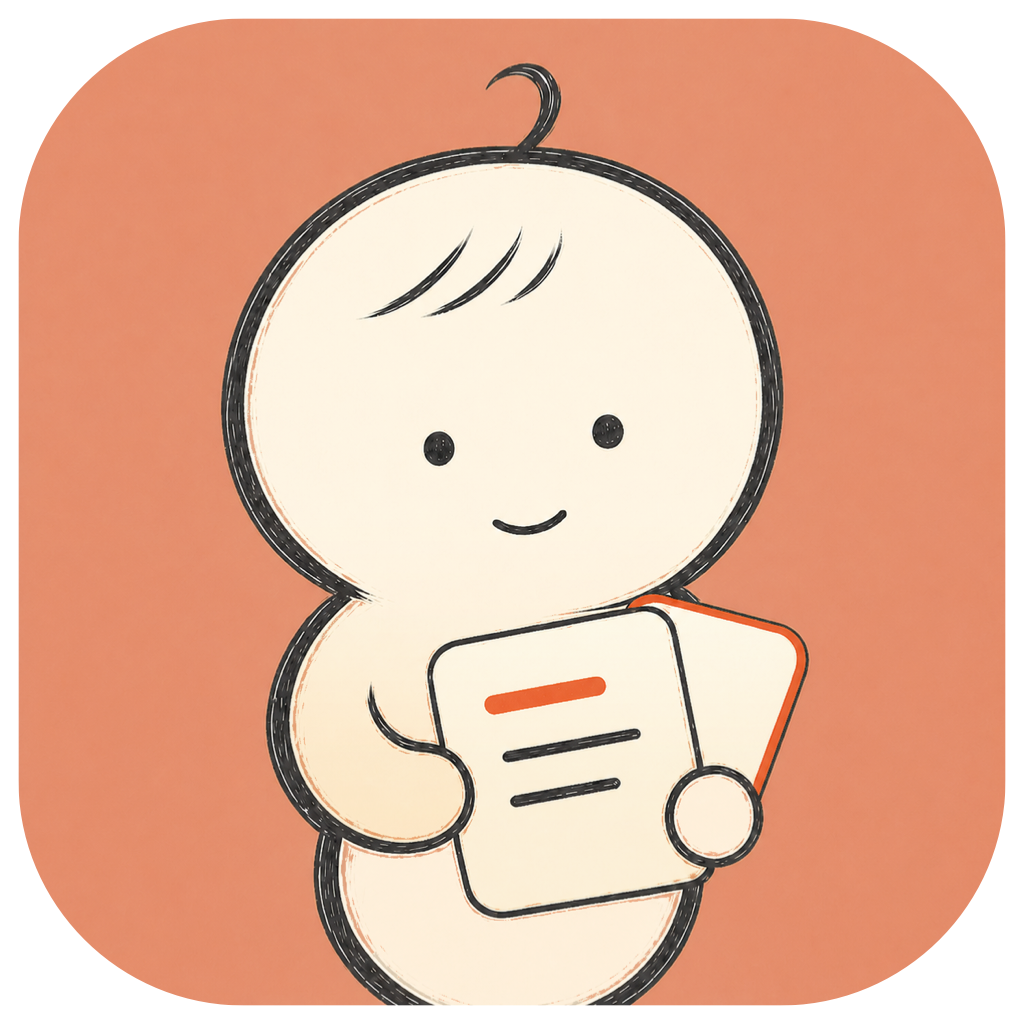
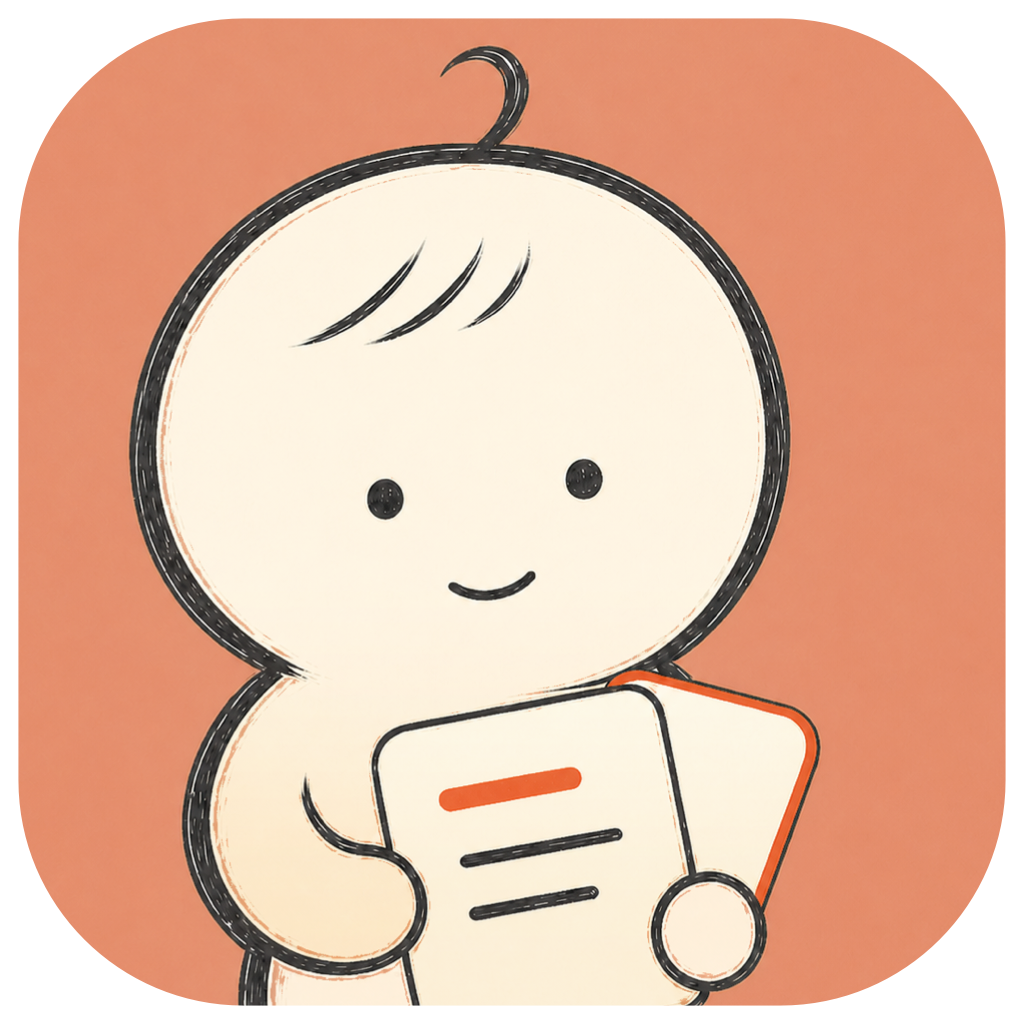
品牌：按参考草图校准 App 图标人物取景

diff --git a/brand/package_raster_assets.swift b/brand/package_raster_assets.swift
@@ -79,6 +79,33 @@ func drawAspectFill(_ image: NSImage, in destination: NSRect) {
     )
 }
 
+func appIconSourceRect(for image: NSImage) -> NSRect {
+    // V8.3 reproduces the accepted sketch crop: a close character view with the
+    // ahoge near the top edge and the lower body/cards intentionally clipped.
+    let cropFraction: CGFloat = 0.85
+    let leftFraction: CGFloat = 0.110
+    let topFraction: CGFloat = 0.022
+    let cropWidth = image.size.width * cropFraction
+    let cropHeight = image.size.height * cropFraction
+    return NSRect(
+        x: image.size.width * leftFraction,
+        y: image.size.height * (1 - topFraction - cropFraction),
+        width: cropWidth,
+        height: cropHeight
+    )
+}
+
+func drawAppIconCrop(_ image: NSImage, in destination: NSRect) {
+    image.draw(
+        in: destination,
+        from: appIconSourceRect(for: image),
+        operation: .sourceOver,
+        fraction: 1,
+        respectFlipped: false,
+        hints: [.interpolation: NSImageInterpolation.high]
+    )
+}
+
 func exportIcon(input: URL, output: URL, size: Int) throws {
     guard let image = NSImage(contentsOf: input) else { throw PackageError.load(input) }
     let bitmap = try makeBitmap(width: size, height: size)
@@ -94,7 +121,7 @@ func exportIcon(input: URL, output: URL, size: Int) throws {
         xRadius: CGFloat(size) * 0.22,
         yRadius: CGFloat(size) * 0.22
     ).addClip()
-    drawAspectFill(image, in: iconRect)
+    drawAppIconCrop(image, in: iconRect)
     NSGraphicsContext.restoreGraphicsState()
     try writePNG(bitmap, to: output)
 }
@@ -138,7 +165,7 @@ func drawIconMaster(_ icon: NSImage, in rect: NSRect) {
         xRadius: rect.width * 0.22,
         yRadius: rect.height * 0.22
     ).addClip()
-    drawAspectFill(icon, in: rect)
+    drawAppIconCrop(icon, in: rect)
     NSGraphicsContext.restoreGraphicsState()
 }
 
@@ -159,8 +186,8 @@ func makeBoard(mascotURL: URL, iconURL: URL, markURL: URL, output: URL) throws {
     background.setFill()
     NSRect(x: 0, y: 0, width: 1600, height: 1000).fill()
 
-    drawText("Review Today — GPT Image Brand Assets V8.2", at: NSPoint(x: 80, y: 920), size: 34, weight: .semibold, color: graphite)
-    drawText("模型负责角色内容；颜色按已接受草图直接取样，工程只做像素校色与打包", at: NSPoint(x: 80, y: 878), size: 18, color: secondary)
+    drawText("Review Today — GPT Image Brand Assets V8.3", at: NSPoint(x: 80, y: 920), size: 34, weight: .semibold, color: graphite)
+    drawText("模型负责角色内容；颜色与 AppIcon 取景均按已接受草图校准", at: NSPoint(x: 80, y: 878), size: 18, color: secondary)
 
     let mascotPanel = NSRect(x: 80, y: 330, width: 480, height: 500)
     let iconPanel = NSRect(x: 600, y: 330, width: 480, height: 500)
@@ -187,7 +214,7 @@ func makeBoard(mascotURL: URL, iconURL: URL, markURL: URL, output: URL) throws {
         x += max(dimension + 70, 118)
     }
     drawText("静态品牌：闭口微笑 + 两张知识卡", at: NSPoint(x: 820, y: 165), size: 18, weight: .medium, color: graphite)
-    drawText("陶土底 #E58E6D；头部 #FFF7E8；下半身 #FCEFD6；不改变模型角色造型。", at: NSPoint(x: 820, y: 128), size: 14, color: secondary)
+    drawText("取景：呆毛接近上沿，头部为主视觉，身体与知识卡在下沿自然裁切。", at: NSPoint(x: 820, y: 128), size: 14, color: secondary)
 
     NSGraphicsContext.restoreGraphicsState()
     try writePNG(bitmap, to: output)

diff --git a/design-explorations/review-agent/BRIEF.md b/design-explorations/review-agent/BRIEF.md
@@ -9,6 +9,7 @@
 - `brand/raster/mascot-master-v8.png` 是统一暖白底的完整吉祥物母图；`brand/raster/app-icon-master-v8.png` 是陶土色 App 图标母图；`brand/raster/mark-master-v8.png` 是单色标志母图。三者均由模型分别生成，并以同一角色身份约束。
 - V8 首轮模型母图的角色偏黄，App 图标底偏高饱和橙红且带中心晕染；V8.1 仍被 Rex 判断为偏橙、身体颜色不准。V8.2 将 Rex 提供的草图保存为 `brand/references/accepted-color-reference-v8.png` 并直接取样：产品底 `#FEF9F2`、头部 `#FFF7E8`、下半身 `#FCEFD6`、卡片 `#FEF8ED`、图标陶土底 `#E58E6D`、石墨 `#3B3A38`、卡片强调 `#E97C4D`。
 - GPT Image 保留并统一角色造型与铅笔纸面质感；由于模型按 Hex 输出的图标底仍约为 `#F59C79`，工程仅将已有像素确定性校准至草图取样中位色，不描线、不补画、不更改角色内容。该校准方式是 Rex 本轮明确要求的直接取色修正。
+- V8.3 进一步以同一草图锁定 App 图标显示范围：角色轮廓约占图标宽度的 72%，呆毛靠近上沿，头部为第一视觉层级，身体与知识卡在下沿自然裁掉；不再为了露出完整身体而缩小角色。
 - 代码只能按已接受草图的取样中位色移动模型已有像素，以及对 App 图标母图进行裁切、缩放、圆角 Alpha 蒙版和 PNG 导出；不能补画五官、手臂、卡片、刘海或呆毛，也不能用 SVG 重新解释模型线条。
 - 内置生成工具两次把透明棋盘格画进 RGB 文件，因此当前完整吉祥物明确使用暖白产品底，不把假透明当作正式透明 cutout。透明角色资源需要后续单独提取并以 `hasAlpha: yes` 验证。
 - App 图标母图已导出为 16–1024 px 工程资源，`brand/exports/brand-acceptance-board.png` 已检查 128、64、32 与 16 px，并通过 macOS Debug 构建；真实 Dock／Finder 视觉仍待 Rex 验收。

diff --git a/DESIGN.md b/DESIGN.md
@@ -391,6 +391,7 @@ Agent 服务 就绪 · 麦克风已允许 · 通知已允许
 - 三者来自同一个角色，而不是三套互不相关的图形系统。
 - 吉祥物使用完整悬浮身体，用于复习窗口、语音状态和未来 Spine 表演。
 - App 图标最终应从被接受的角色母形提炼，在小尺寸保留最有生命力的轮廓与表情；是否使用头部近景不在角色确认前锁死。
+- 已接受草图同时锁定 App 图标取景：角色轮廓约占图标宽度的 72%，呆毛只保留约 2%–4% 上边距，头部成为第一视觉层级；身体、双臂与知识卡在下边缘自然裁切，不为展示完整角色而缩小。完整悬浮身体只用于吉祥物立绘，不用于 AppIcon。
 - 极简 Logo 最终从同一角色提炼，用于菜单栏、状态图标、水印和小尺寸品牌位置；不预设必须由头部线圈或嘴构成。
 - 品牌的核心静态动作采用“复习老师带着今日复习卡来找用户”：优先探索双手抱着两张轻微错位的复习卡、向用户递卡邀请，以及翻卡提问三种构图。空手抱臂容易显得审视或封闭；吹哨与胸前常驻哨子偏向体育教练、裁判和催促，不进入常驻吉祥物、App 图标或 Logo。
 - 复习卡负责表达“带着内容帮助用户重温”，角色表情负责表达温柔老师人格，耳机和原生会话状态负责表达语音互动。App 图标不强行同时塞入复习、老师、语音与 AI 的全部符号，也不使用问号、对勾、文字、麦克风或通用聊天气泡替代角色辨识。

diff --git a/brand/README.md b/brand/README.md
@@ -9,6 +9,7 @@
 - `raster/mark-master-v8.png`：暖白底单色石墨标志母图。
 - `exports/brand-acceptance-board.png`：三项母图与实际 AppIcon 尺寸的集中验收板。
 - `references/accepted-color-reference-v8.png`：Rex 提供的已接受草图颜色参考。
+- `references/accepted-app-icon-crop-v8.png`：Rex 提供的 App 图标人物显示范围参考。
 - `palette-sampled.json`：从颜色参考干净区域直接取得的 sRGB 色值。
 
 ## 生产原则
@@ -43,5 +44,5 @@ swift brand/apply_sampled_palette.swift mark INPUT.png OUTPUT.png
 
 1. 对照三张母图检查是否仍是同一个角色，尤其是眼距、刘海、呆毛、闭口微笑、双臂和两张知识卡。
 2. 检查 1024、128、64、32 和 16 px 的卡片语义与表情是否仍然可辨认。
-3. 在 Dock、Finder、启动台和应用切换器检查图标裁切、圆角、留白和陶土底质感。
+3. 在 Dock、Finder、启动台和应用切换器检查图标裁切：角色轮廓约占图标宽度的 72%，呆毛接近上沿，身体和卡片在下沿自然裁掉；不要缩成完整立绘。
 4. 视觉通过前，不把当前模型输出称为最终品牌定稿或 Spine 可用拆件。

diff --git a/brand/GENERATION.md b/brand/GENERATION.md
@@ -34,6 +34,12 @@
 - GPT Image 按上述 Hex 生成的 App 图标仍把背景输出为约 `#F59C79`，因此最终使用 `apply_sampled_palette.swift` 将模型已有像素整体校准到取样中位色，同时保留纸面明暗与铅笔纹理。
 - 校准只移动已有颜色，不改变轮廓、表情、动作、卡片结构或裁切；头部到下半身采用平滑奶油色过渡，避免硬分界。单色标志沿用 V8.1 模型内容，只把背景与石墨线同步校准到同一取样色板。
 
+## V8.3 App 图标取景校正
+
+- Rex 通过 `references/accepted-app-icon-crop-v8.png` 指出正式 AppIcon 必须遵循已接受草图中的人物显示范围，而不是把模型角色尽量完整地塞进圆角方形。
+- 目标取景：角色深色轮廓约占图标宽度的 72%，呆毛距上沿约 2%–4%；头部居中偏左，身体、双臂与知识卡在下沿自然裁切。
+- 本轮只调整同一 App 图标模型母图的工程裁切窗口，不缩放或重画角色内部结构，也不修改 V8.2 取样色板。
+
 ## 单色标志
 
 - 目标：同一角色的一色石墨提炼，保留头部、呆毛、刘海、闭口微笑、身体与知识卡。
